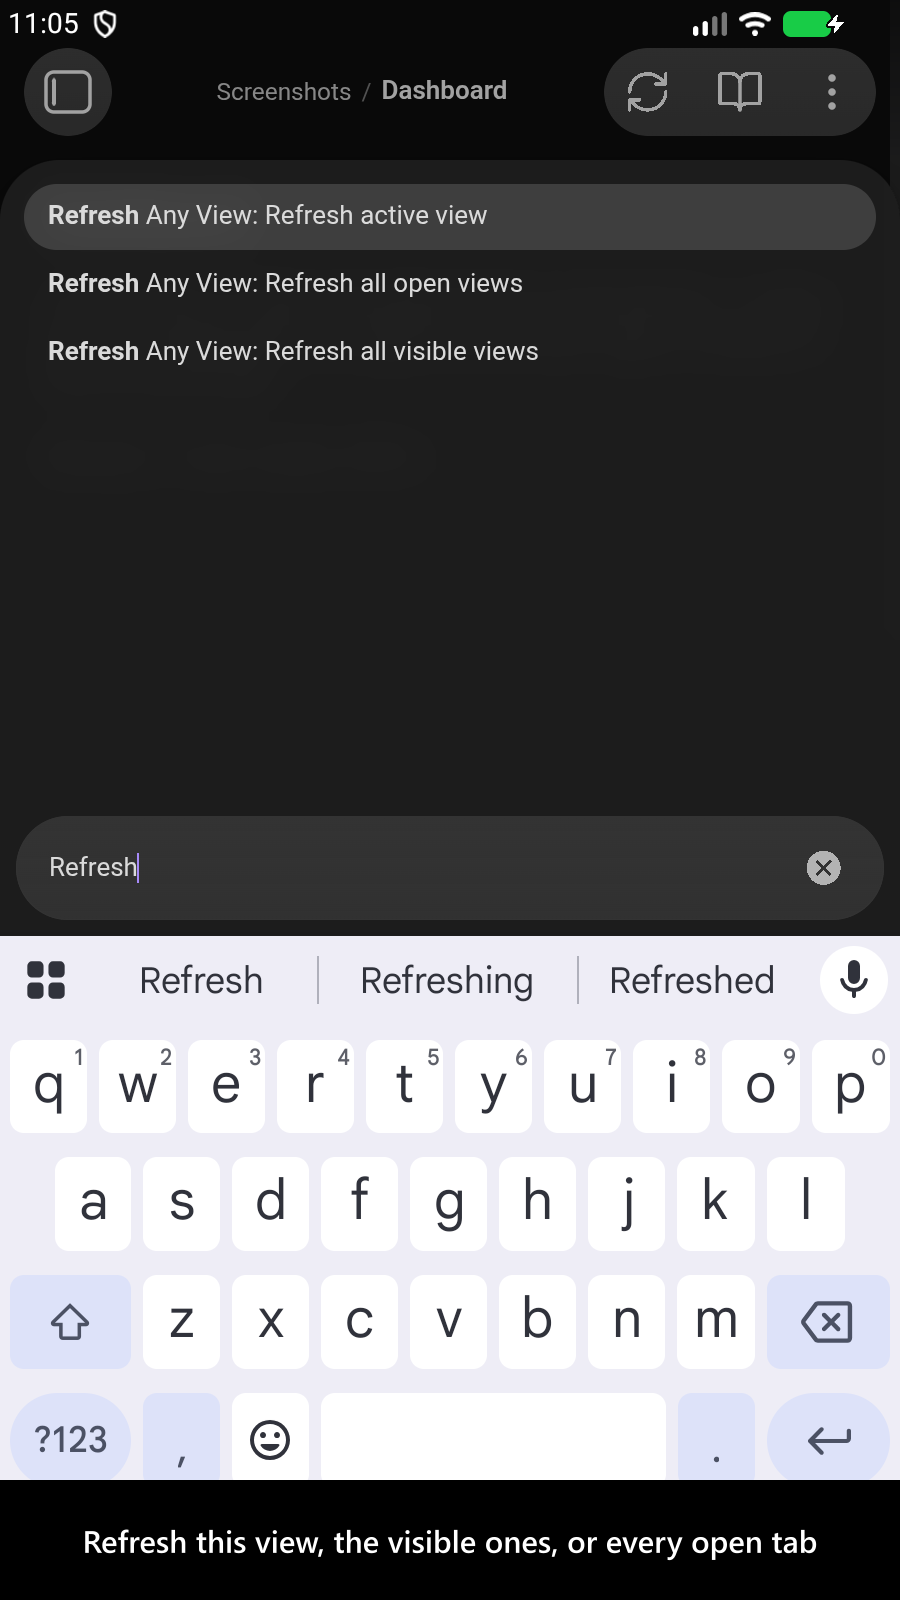
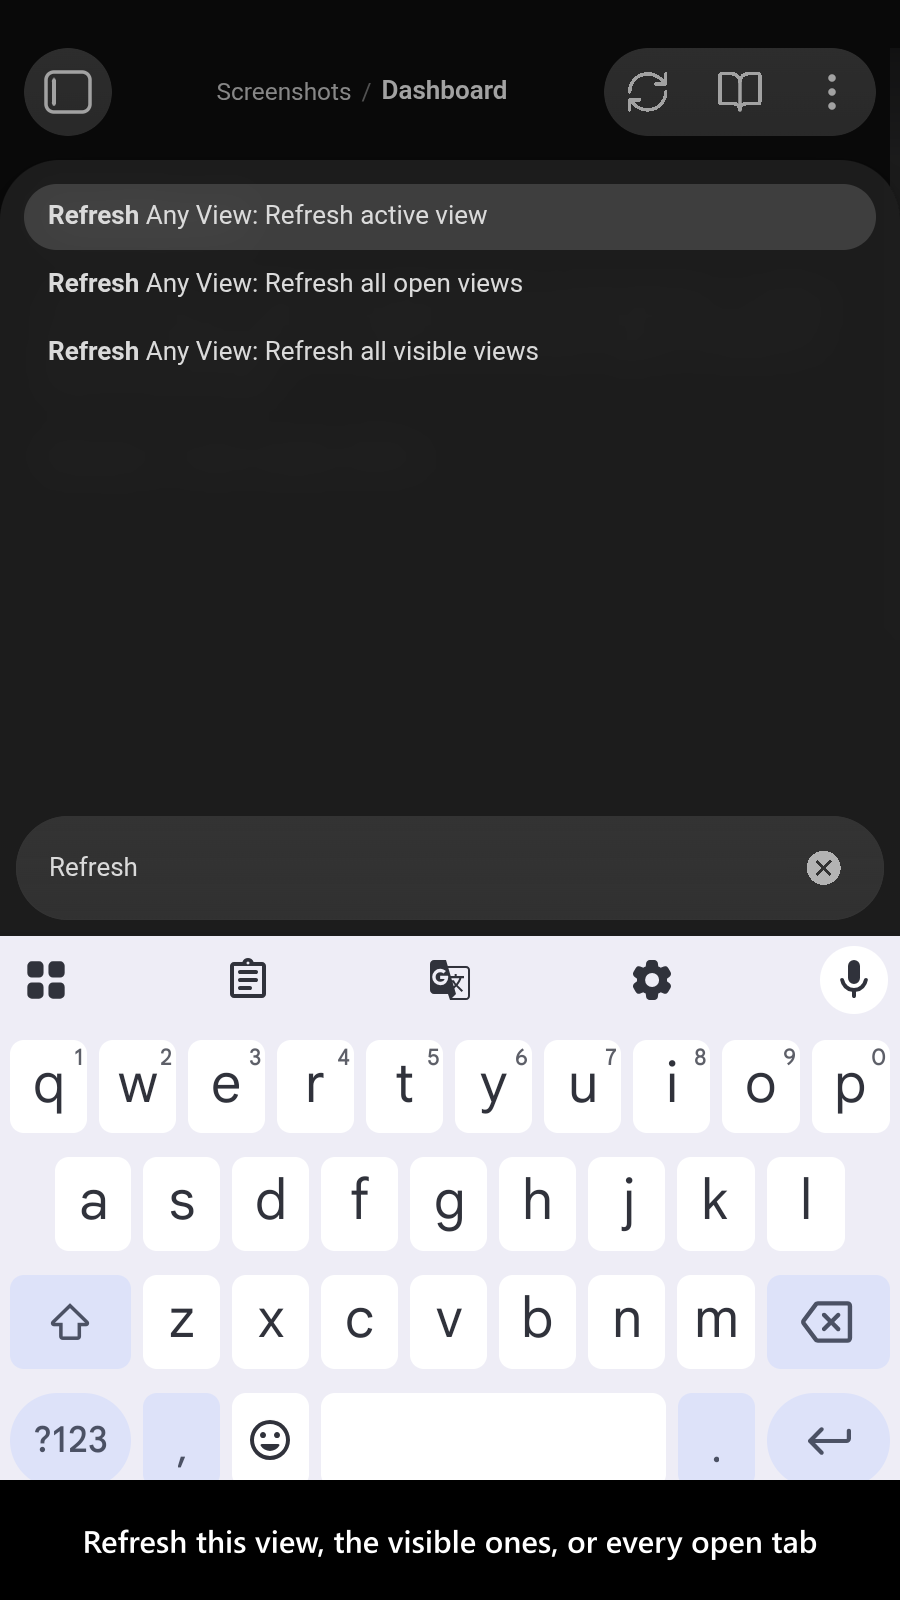
fix(screenshots): make the mobile command-palette frame byte-reproducible
The device capture carried three things that changed between runs: the
status-bar clock and battery, the blinking caret, and Gboard's
suggestion strip, which raced between its toolbar and word predictions.
Paint the status bar out, hide the caret around the capture, and rely
on raiseSoftKeyboard parking the caret at offset 0 (17.2.0) so the strip
is always the toolbar. Three capture runs now give identical bytes for
both mobile frames.

diff --git a/src/screenshots.android-capture.integration.test.ts b/src/screenshots.android-capture.integration.test.ts
@@ -36,7 +36,9 @@ import {
   captureDeviceScreenshot,
   captureObsidianScreenshot,
   evalInObsidian,
+  hideCaret,
   labelScreenshot,
+  paintOutStatusBar,
   raiseSoftKeyboard,
   readPngDimensions,
   resolveEmulatorDeviceId,
@@ -107,6 +109,13 @@ const AVD_NAME = 'obsidian_screenshots';
  * palette renders `.prompt input`, which is not the `.prompt-input` a suggester renders.
  */
 const PALETTE_INPUT_SELECTOR = '.prompt input';
+
+/**
+ * The status bar's height on the `obsidian_screenshots` AVD, in framebuffer pixels: 24dp at density 320.
+ * Measured on a frame, not derived. The harness refuses to paint a band whose bottom row is not one flat
+ * color, so a stale number fails the capture rather than painting over the app.
+ */
+const STATUS_BAR_HEIGHT_IN_PIXELS = 48;
 
 let deviceId = '';
 
@@ -347,10 +356,16 @@ async function shoot(index: number, caption: string): Promise<void> {
  * so `raiseSoftKeyboard` lands a real touch on the field and then proves geometrically that it lifted,
  * because nothing in the page reports the keyboard.
  *
- * The trade, which applies only to the shots that switch: a device capture is **not** byte-reproducible,
- * because the status-bar clock and the battery indicator are in it. A shot with no focused field keeps
- * {@link shoot} and stays reproducible — a real phone shows no keyboard there either, so raising one
- * would make that frame less true rather than more.
+ * A device capture carries three things that change between runs, and each is removed where it arises:
+ * - The status bar's clock and battery. `paintOutStatusBar` fills the band with the background under it,
+ *   after checking the band holds nothing of the app.
+ * - The blinking caret. `hideCaret` makes it transparent for the capture, since the device route has no
+ *   page channel to do it by itself, and blurring would take the keyboard down with the focus.
+ * - Gboard's suggestion strip, which raced between its toolbar and word predictions that differ from one
+ *   run to the next. `raiseSoftKeyboard` parks the caret at offset 0, so the strip is always the toolbar.
+ *
+ * A shot with no focused field keeps {@link shoot}: a real phone shows no keyboard there either, so raising
+ * one would make that frame less true rather than more.
  *
  * @param index - The 1-based listing position.
  * @param caption - The caption drawn across the bottom of the frame.
@@ -364,12 +379,17 @@ async function shootWithSoftKeyboard(index: number, caption: string): Promise<vo
         vaultPath: vaultPath()
       });
 
-      return await captureDeviceScreenshot({ deviceId });
+      const caret = await hideCaret({ vaultPath: vaultPath() });
+      try {
+        return await captureDeviceScreenshot({ deviceId });
+      } finally {
+        await caret.restore();
+      }
     },
     deviceId
   });
 
-  await writeFrame(index, caption, captured);
+  await writeFrame(index, caption, await paintOutStatusBar(captured, { heightInPixels: STATUS_BAR_HEIGHT_IN_PIXELS }));
 }
 
 function vaultPath(): string {

diff --git a/AGENTS.md b/AGENTS.md
@@ -7,7 +7,13 @@
 The mobile frames are captured by **two different routes**, and which route a frame takes is a decision about that frame rather than a style choice:
 
 - **A frame whose subject is not a focused field captures the PAGE** (`captureObsidianScreenshot`), which is byte-reproducible: no status bar and no clock, so re-capturing an unchanged frame leaves no diff. A real phone shows no keyboard on such a screen either, so raising one would make the frame *less* true.
-- **A frame whose subject IS a focused field captures the DEVICE** (`captureDeviceScreenshot`), with the soft keyboard raised first. A page capture cannot show a keyboard: it drives Appium in the WebView context, so it photographs the page, and the IME is a system window that is not part of the page. That left the command-palette frame as a search field over a large empty band, with the caption band — drawn across the bottom of the image — landing on the field and clipping the typed text. **The cost is that the switched frame is no longer byte-reproducible**, since the status-bar clock and the battery indicator are in it. Do not "fix" that churn by putting it back on the page capture, and do not switch the other frames over for consistency.
+- **A frame whose subject IS a focused field captures the DEVICE** (`captureDeviceScreenshot`), with the soft keyboard raised first. A page capture cannot show a keyboard: it drives Appium in the WebView context, so it photographs the page, and the IME is a system window that is not part of the page. That left the command-palette frame as a search field over a large empty band, with the caption band — drawn across the bottom of the image — landing on the field and clipping the typed text. Do not put it back on the page capture, and do not switch the other frames over for consistency.
+- **The device frame is byte-reproducible too, but only because three things are removed from it**, each where it arises (measured 2026-09-25: three capture runs, identical bytes for both frames):
+  - The status-bar clock and battery: `paintOutStatusBar` fills the band. Its `STATUS_BAR_HEIGHT_IN_PIXELS` (48) is measured on this AVD, and the harness refuses the capture rather than painting over the app if it goes stale.
+  - The blinking caret: `hideCaret` around the capture, since a device capture has no page channel to hide it by itself.
+  - Gboard's suggestion strip, which raced between its toolbar and word predictions that change from run to run: `raiseSoftKeyboard` (obsidian-integration-testing 17.2.0 and later) parks the caret at offset 0, so the strip is always the toolbar.
+
+  If the frame starts churning again, diff two captures and find which of the three came back; do not accept the churn.
 - **Raising the keyboard takes TWO things**, which is why both belong to `obsidian-integration-testing` rather than being copied in here. The AVD is built with a hardware keyboard attached, so Android suppresses the on-screen one entirely — `withSoftKeyboardEnabled` lifts that for the duration of a shot and restores the device exactly, including restoring a setting that had never been written, which takes a delete rather than a write. And a WebView will not ask for an IME on programmatic focus alone: `raiseSoftKeyboard` lands a real touch on the field and then proves geometrically that it lifted, because nothing in the page reports the keyboard — `innerHeight`, `visualViewport` and the modal container all keep their full height with it shown. A failure writes the device framebuffer and the device's own input-method state to `dist/screenshots/`, because a bare assertion failure here is unreadable.
 - **A passing lift check is not the same as a good frame.** The check asks whether the FIELD moved clear of the bottom; it cannot tell you the keyboard covered the thing the shot is evidence for. So look at a switched frame, every time, rather than trusting the measurement alone.
 - **The field it touches is read off the suite, not assumed.** The command palette renders `.prompt input`, which is not the `.prompt-input` a suggester renders.
